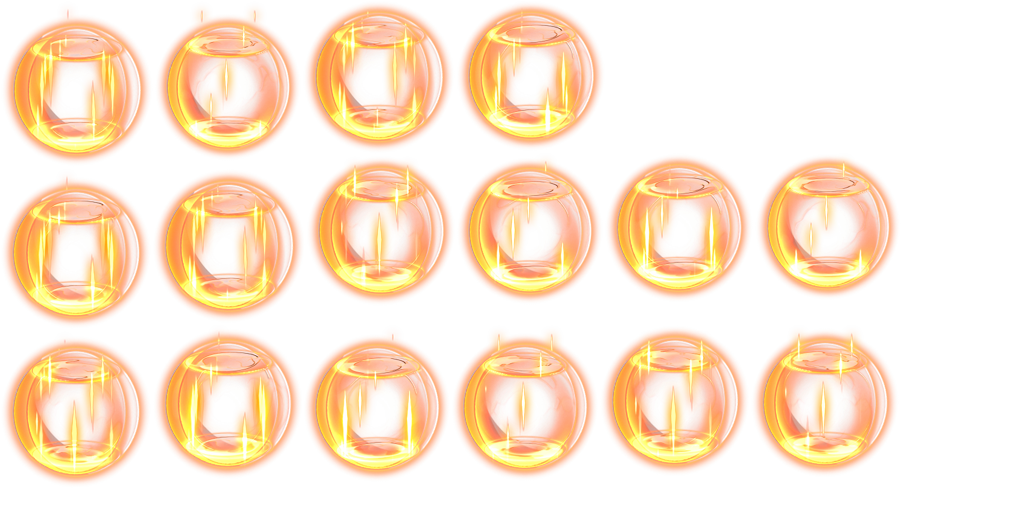
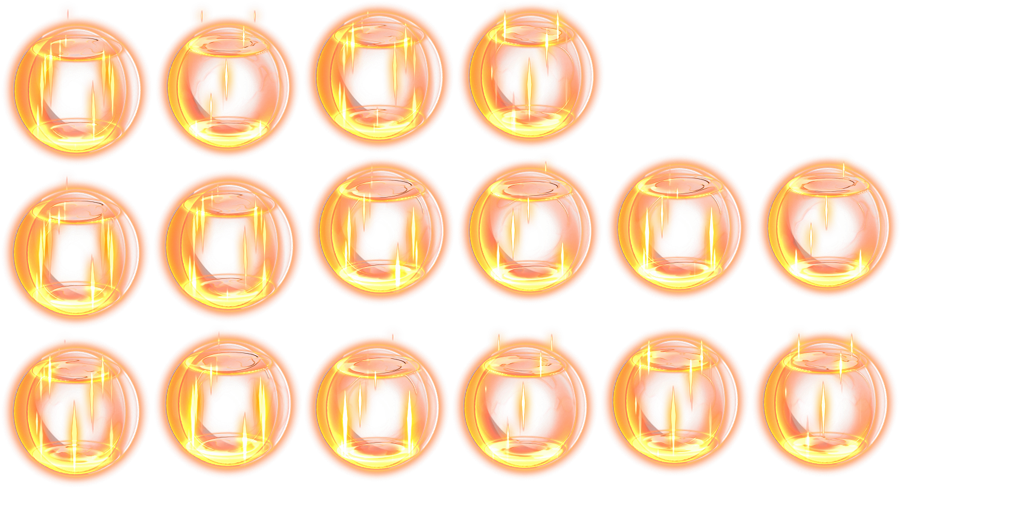
超能药水特效 bug

Changed region(s): [[0.3125, 0.3125, 0.4375, 0.5625], [0.4688, 0.0312, 0.5625, 0.25]]

diff --git a/common/logic/Utils.ts b/common/logic/Utils.ts
@@ -616,7 +616,7 @@ class Utils {
 
     // 判断是否是处于新手期
     public static checkRookiePlay():boolean {
-        return !Utils.loadLocalData("rookiePlay") || Utils.loadLocalData("rookiePlay") != "finished";
+        return false; // !Utils.loadLocalData("rookiePlay") || Utils.loadLocalData("rookiePlay") != "finished";
     }
 
     // 根据btType找到该关卡对应的levelLogics

diff --git a/common/logic/player/Occupation.ts b/common/logic/player/Occupation.ts
@@ -63,6 +63,7 @@ class Occupation {
         // p.addRelic(<Relic>ElemFactory.create("KnifeRange")); // 初始遗物
         // p.addRelic(<Relic>ElemFactory.create("InfinityKnife")); // 初始遗物
         p.addItem(<Prop>ElemFactory.create("HpPotion")); // 初始物品
+        p.addItem(<Prop>ElemFactory.create("SuperPotion"));
         return p;
     }
 
